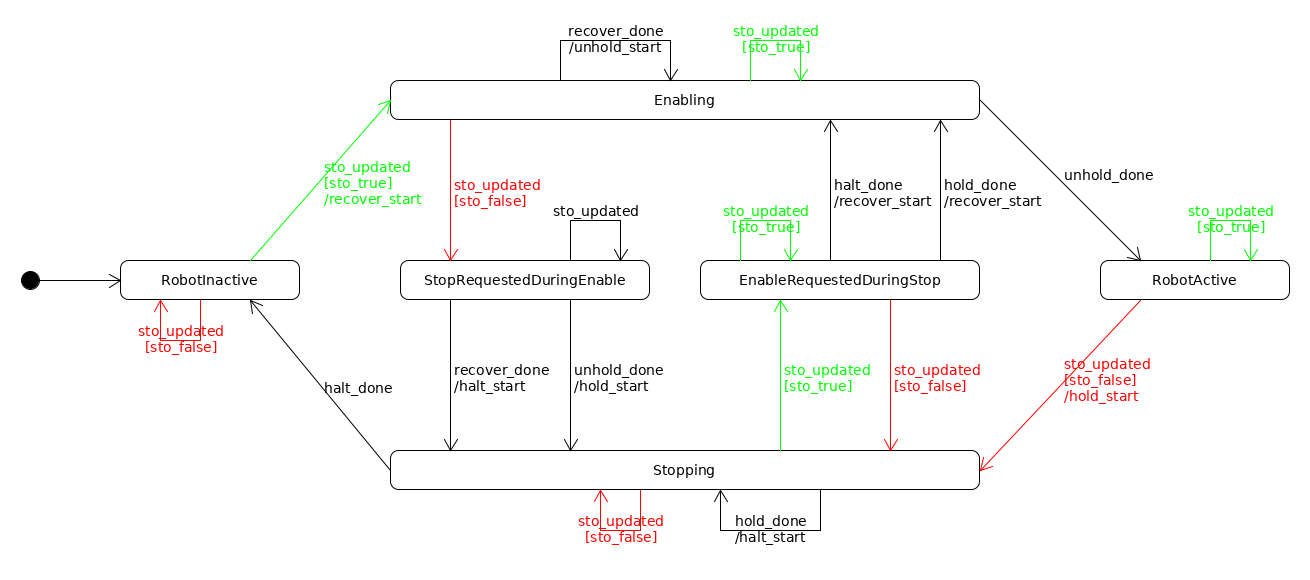
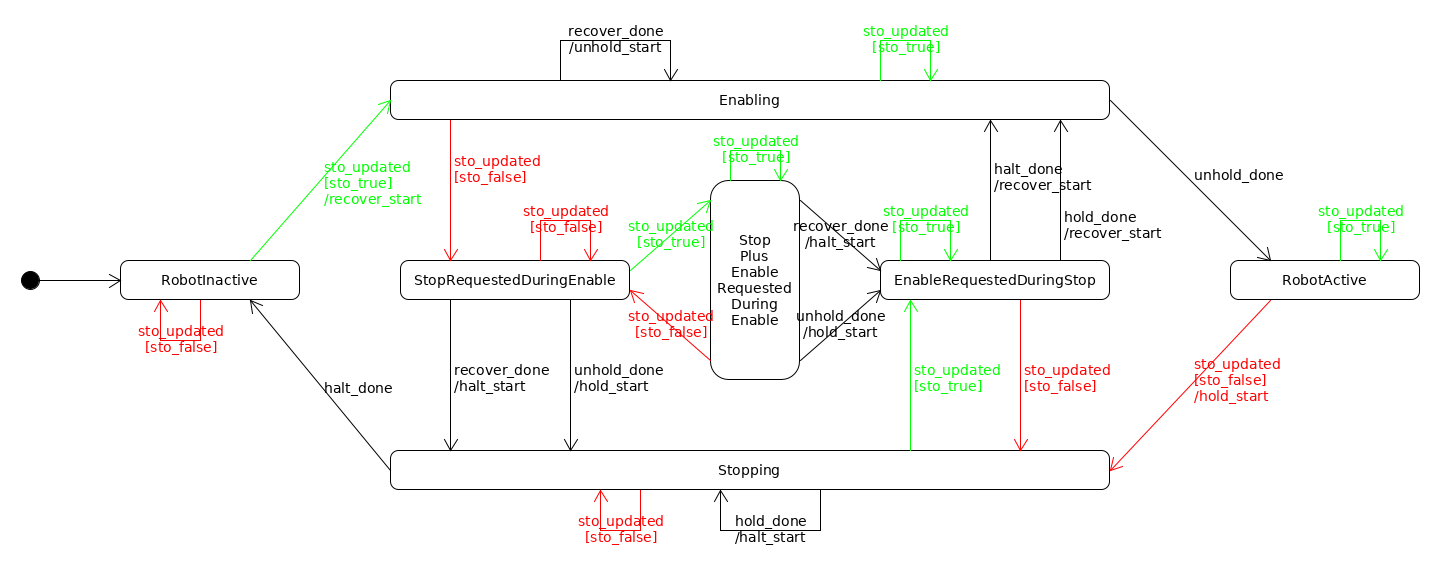
Fix state machine
Since we want to react on every change of the sto-value, the state machine needs an aditional state StopPlusEnableRequestedDuringEnable.
However we could also argue that this is not necessary and no longer react on changes during stop.

diff --git a/prbt_hardware_support/include/prbt_hardware_support/sto_state_machine.h b/prbt_hardware_support/include/prbt_hardware_support/sto_state_machine.h
@@ -18,6 +18,10 @@
 #ifndef PRBT_HARDWARE_SUPPORT_STO_STATE_MACHINE_H
 #define PRBT_HARDWARE_SUPPORT_STO_STATE_MACHINE_H
 
+#define BOOST_MPL_CFG_NO_PREPROCESSED_HEADERS
+#define BOOST_MPL_LIMIT_VECTOR_SIZE 30 //or whatever you need
+#define BOOST_MPL_LIMIT_MAP_SIZE 30 //or whatever you need
+
 #include <queue>
 #include <string>
 
@@ -188,6 +192,20 @@ public:
     }
   };
 
+  struct StopPlusEnableRequestedDuringEnable : public msm::front::state<>
+  {
+    template <class Event, class FSM>
+    void on_entry(Event const &, FSM &)
+    {
+      ROS_DEBUG("entering: StopPlusEnableRequestedDuringEnable");
+    }
+    template <class Event, class FSM>
+    void on_exit(Event const &, FSM &)
+    {
+      ROS_DEBUG("leaving: StopPlusEnableRequestedDuringEnable");
+    }
+  };
+
   //! Initial state
   typedef RobotInactive initial_state;
 
@@ -321,9 +339,14 @@ public:
   Row< Enabling                  , sto_updated  , StopRequestedDuringEnable , none         , sto_false>,
   Row< Enabling                  , recover_done , none                      , unhold_start , none     >,
   Row< Enabling                  , unhold_done  , RobotActive               , none         , none     >,
-  Row< StopRequestedDuringEnable , sto_updated  , none                      , none         , none     >,
+  Row< StopRequestedDuringEnable , sto_updated  , none                      , none         , sto_false     >,
+  Row< StopRequestedDuringEnable , sto_updated  , StopPlusEnableRequestedDuringEnable                      , none         , sto_true     >,
   Row< StopRequestedDuringEnable , recover_done , Stopping                  , halt_start   , none     >,
   Row< StopRequestedDuringEnable , unhold_done  , Stopping                  , hold_start   , none     >,
+  Row< StopPlusEnableRequestedDuringEnable, sto_updated, StopRequestedDuringEnable, none, sto_false >,
+  Row< StopPlusEnableRequestedDuringEnable, sto_updated, none, none, sto_true >,
+  Row< StopPlusEnableRequestedDuringEnable, recover_done, EnableRequestedDuringStop, halt_start, none >,
+  Row< StopPlusEnableRequestedDuringEnable, unhold_done, EnableRequestedDuringStop, hold_start, none >,
   Row< RobotActive               , sto_updated  , none                      , none         , sto_true >,
   Row< RobotActive               , sto_updated  , Stopping                  , hold_start   , sto_false>,
   Row< Stopping                  , sto_updated  , EnableRequestedDuringStop , none         , sto_true >,

diff --git a/prbt_hardware_support/include/prbt_hardware_support/adapter_sto.h b/prbt_hardware_support/include/prbt_hardware_support/adapter_sto.h
@@ -18,6 +18,10 @@
 #ifndef PRBT_HARDWARE_SUPPORT_ADAPTER_STO_H
 #define PRBT_HARDWARE_SUPPORT_ADAPTER_STO_H
 
+#define BOOST_MPL_CFG_NO_PREPROCESSED_HEADERS
+#define BOOST_MPL_LIMIT_VECTOR_SIZE 30 //or whatever you need
+#define BOOST_MPL_LIMIT_MAP_SIZE 30 //or whatever you need
+
 #include <atomic>
 #include <condition_variable>
 #include <mutex>

diff --git a/prbt_hardware_support/src/modbus_adapter_sto_node.cpp b/prbt_hardware_support/src/modbus_adapter_sto_node.cpp
@@ -15,6 +15,10 @@
  * along with this program.  If not, see <http://www.gnu.org/licenses/>.
  */
 
+#define BOOST_MPL_CFG_NO_PREPROCESSED_HEADERS
+#define BOOST_MPL_LIMIT_VECTOR_SIZE 30 //or whatever you need
+#define BOOST_MPL_LIMIT_MAP_SIZE 30 //or whatever you need
+
 #include <ros/ros.h>
 
 #include <prbt_hardware_support/modbus_api_spec.h>

diff --git a/prbt_hardware_support/test/unittests/unittest_adapter_sto.cpp b/prbt_hardware_support/test/unittests/unittest_adapter_sto.cpp
@@ -15,6 +15,10 @@
  * along with this program.  If not, see <http://www.gnu.org/licenses/>.
  */
 
+#define BOOST_MPL_CFG_NO_PREPROCESSED_HEADERS
+#define BOOST_MPL_LIMIT_VECTOR_SIZE 30 //or whatever you need
+#define BOOST_MPL_LIMIT_MAP_SIZE 30 //or whatever you need
+
 #include <atomic>
 #include <functional>
 #include <memory>

diff --git a/prbt_hardware_support/test/integrationtests/integrationtest_modbus_adapter_sto.cpp b/prbt_hardware_support/test/integrationtests/integrationtest_modbus_adapter_sto.cpp
@@ -15,6 +15,10 @@
  * along with this program.  If not, see <http://www.gnu.org/licenses/>.
  */
 
+#define BOOST_MPL_CFG_NO_PREPROCESSED_HEADERS
+#define BOOST_MPL_LIMIT_VECTOR_SIZE 30 //or whatever you need
+#define BOOST_MPL_LIMIT_MAP_SIZE 30 //or whatever you need
+
 #include <string>
 #include <vector>
 #include <stdexcept>

diff --git a/prbt_hardware_support/include/prbt_hardware_support/modbus_adapter_sto.h b/prbt_hardware_support/include/prbt_hardware_support/modbus_adapter_sto.h
@@ -18,6 +18,10 @@
 #ifndef MODBUS_ADAPTER_STO_H
 #define MODBUS_ADAPTER_STO_H
 
+#define BOOST_MPL_CFG_NO_PREPROCESSED_HEADERS
+#define BOOST_MPL_LIMIT_VECTOR_SIZE 30 //or whatever you need
+#define BOOST_MPL_LIMIT_MAP_SIZE 30 //or whatever you need
+
 #include <memory>
 
 #include <ros/ros.h>
